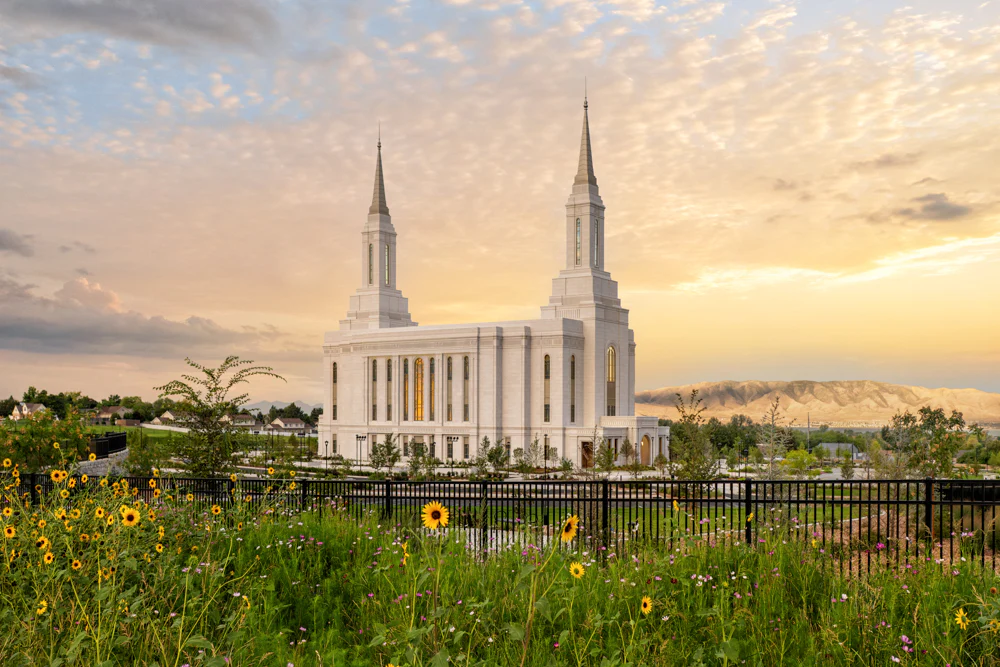
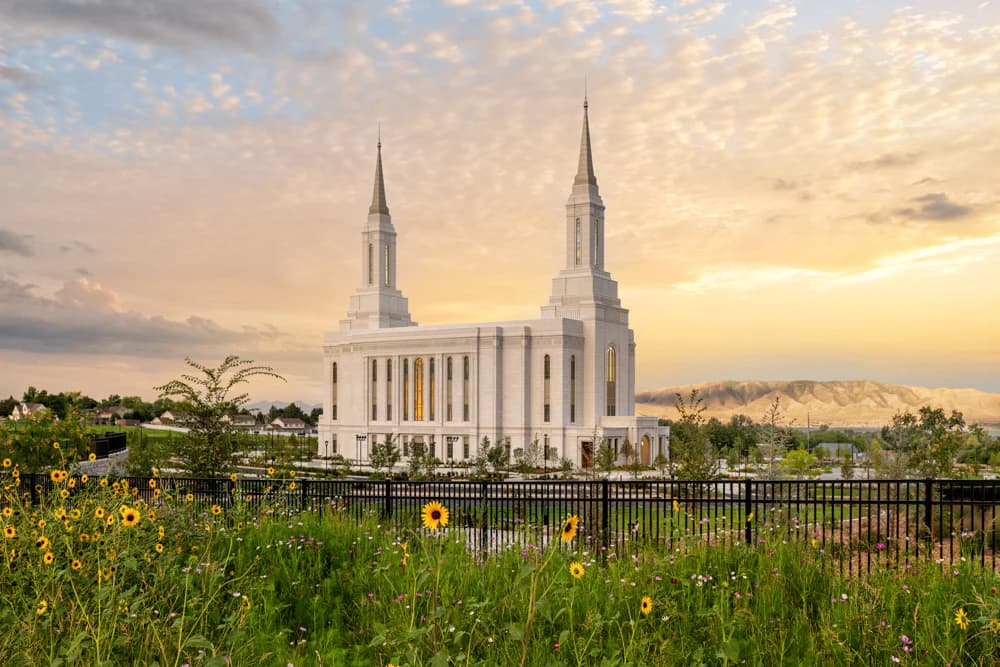
commit all

diff --git a/styles/temples.css b/styles/temples.css
@@ -6,13 +6,13 @@
 
 body {
     font-family: "Poppins", sans-serif;
-    background-color: #f4f4f4;
+    background: #f4f4f4;
     color: #333;
 }
 
 header {
-    background-color: #003366;
-    color: white;
+    background: #003366;
+    color: #fff;
     padding: 1rem;
 }
 
@@ -26,7 +26,7 @@ header {
 
 #menu {
     display: block;
-    margin: 0 auto;
+    margin: auto;
     background: none;
     border: none;
     color: white;
@@ -34,33 +34,37 @@ header {
     cursor: pointer;
 }
 
+/* NAV IS ALWAYS FLEX */
 .navigation {
-    display: none;
+    display: flex;
     flex-direction: column;
-    text-align: center;
+    align-items: center;
+    gap: .5rem;
     margin-top: 1rem;
 }
 
-.navigation.open {
-    display: flex;
+/* Hidden on mobile until menu opens */
+.hide {
+    display: none;
 }
 
 .navigation a {
     color: white;
     text-decoration: none;
-    padding: 1rem;
     font-weight: 600;
-    transition: 0.3s;
+    padding: .8rem;
+    width: 100%;
+    transition: .3s;
 }
 
 .navigation a:hover {
-    background-color: gold;
+    background: gold;
     color: #003366;
 }
 
 main {
     max-width: 1100px;
-    margin: 0 auto;
+    margin: auto;
     padding: 2rem 1rem;
 }
 
@@ -87,17 +91,16 @@ figure img {
     width: 100%;
     height: 250px;
     object-fit: cover;
-    display: block;
 }
 
 figcaption {
-    padding: 1rem;
     text-align: center;
+    padding: 1rem;
     font-weight: 600;
 }
 
 footer {
-    background-color: #003366;
+    background: #003366;
     color: white;
     text-align: center;
     padding: 1.5rem;

diff --git a/scripts/temples.js b/scripts/temples.js
@@ -1,21 +1,22 @@
-const hamButton = document.querySelector("#menu");
+const menuButton = document.querySelector("#menu");
 const navigation = document.querySelector(".navigation");
 
-hamButton.addEventListener("click", () => {
-    navigation.classList.toggle("open");
-    hamButton.classList.toggle("open");
+menuButton.addEventListener("click", () => {
 
-    if (navigation.classList.contains("open")) {
-        hamButton.innerHTML = "✖";
+    navigation.classList.toggle("hide");
+
+    if (navigation.classList.contains("hide")) {
+        menuButton.innerHTML = "&#9776;";
     } else {
-        hamButton.innerHTML = "☰";
+        menuButton.innerHTML = "&times;";
     }
+
 });
 
-// Footer dates
-const year = document.querySelector("#currentyear");
-const lastModified = document.querySelector("#lastModified");
+// Footer
 
-year.textContent = new Date().getFullYear();
+document.querySelector("#currentyear").textContent =
+    new Date().getFullYear();
 
-lastModified.textContent = `Last Modification: ${document.lastModified}`;
+document.querySelector("#lastModified").textContent =
+    `Last Modification: ${document.lastModified}`;

diff --git a/temples.html b/temples.html
@@ -8,7 +8,7 @@
     <title>WDD 131 – Temple Album – Duabo Bobmanuel</title>
 
     <meta name="description"
-        content="WDD 131 Dynamic Web Fundamentals Temple Album by Duabo Bobmanuel featuring responsive web design and JavaScript.">
+        content="Temple Album project for WDD 131 by Duabo Bobmanuel featuring responsive web design and JavaScript.">
 
     <meta name="author" content="Duabo Bobmanuel">
 
@@ -34,18 +34,14 @@
 
         <span id="course-title">Temple Album</span>
 
-        <button id="menu" aria-label="Navigation Menu">&#9776;</button>
+        <button id="menu" aria-label="Menu">&#9776;</button>
 
-        <nav class="navigation">
+        <nav class="navigation hide">
 
             <a href="#">Home</a>
-
             <a href="#">Old</a>
-
             <a href="#">New</a>
-
             <a href="#">Large</a>
-
             <a href="#">Small</a>
 
         </nav>
@@ -109,11 +105,7 @@
 
     <footer>
 
-        <p>
-            &copy;
-            <span id="currentyear"></span>
-            Duabo Bobmanuel | Nigeria
-        </p>
+        <p>&copy; <span id="currentyear"></span> Duabo Bobmanuel | Nigeria</p>
 
         <p id="lastModified"></p>
 

diff --git a/styles/temples-large.css b/styles/temples-large.css
@@ -1,9 +1,10 @@
-@media only screen and (min-width: 768px) {
+@media only screen and (min-width:768px) {
 
     #menu {
         display: none;
     }
 
+    /* NAV REMAINS FLEX */
     .navigation {
         display: flex;
         flex-direction: row;
@@ -12,8 +13,12 @@
         margin-top: 0;
     }
 
+    .hide {
+        display: flex;
+    }
+
     .navigation a {
-        padding: 0.8rem 1rem;
+        width: auto;
     }
 
     .gallery {
@@ -27,4 +32,5 @@
     main {
         padding: 2rem;
     }
+
 }